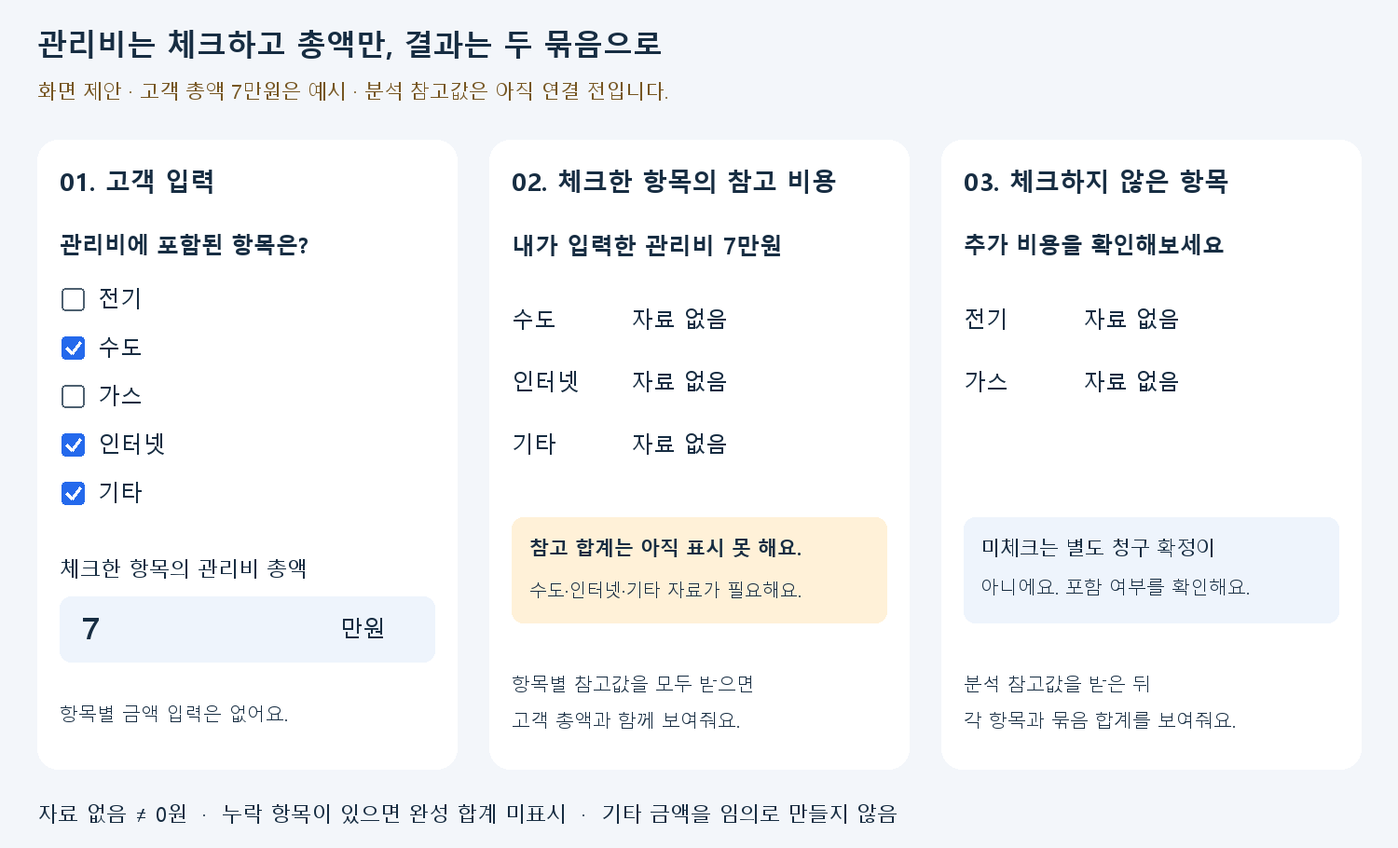
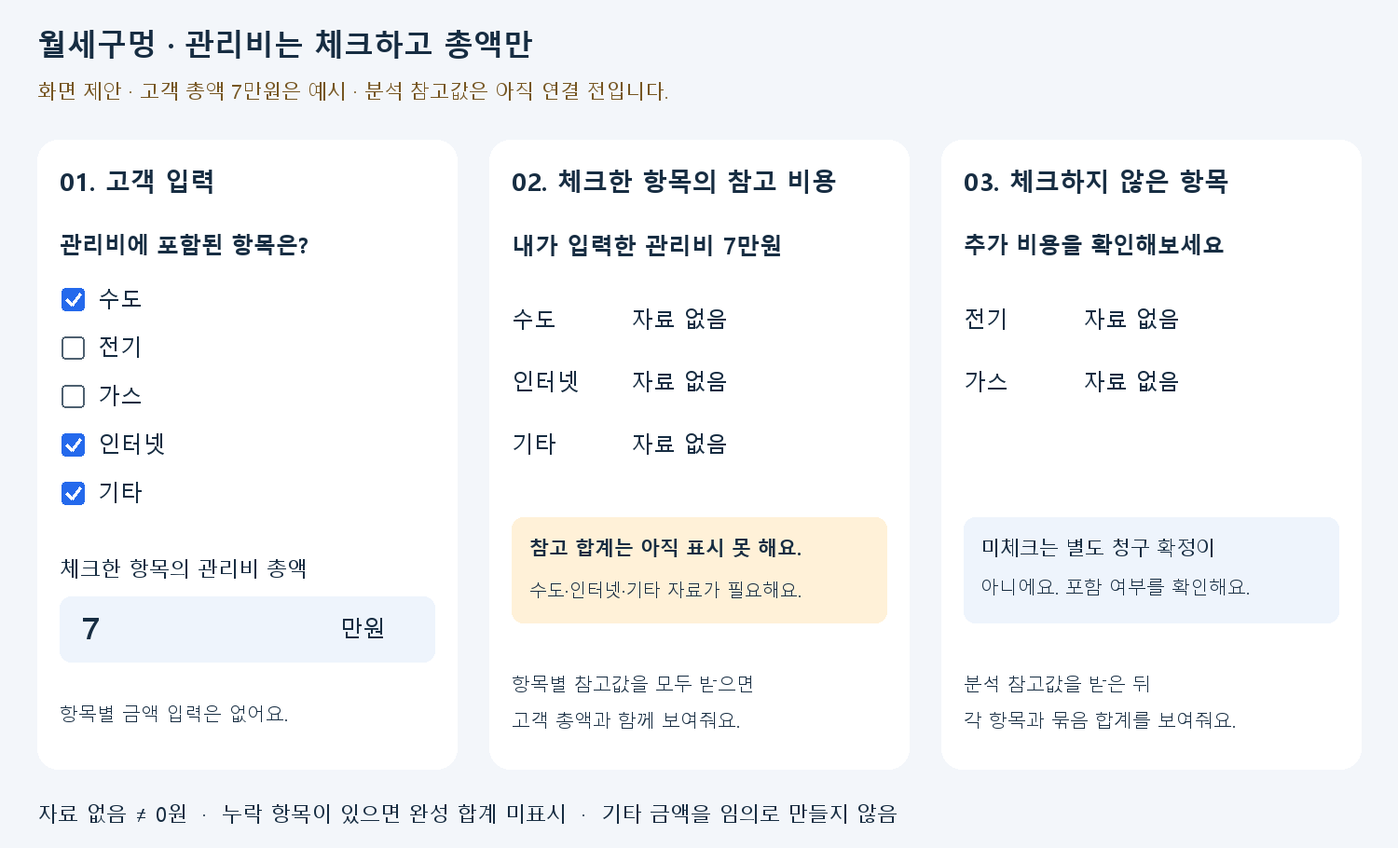
Apply WolseGumeong identity and meeting-approved five-category policy

Changed region(s): [[0.0307, 0.0308, 0.4907, 0.0923], [0.0307, 0.4, 0.092, 0.4308], [0.0307, 0.3385, 0.092, 0.3692]]

diff --git a/backend/reports/mvp_design_review_20261021/review.html b/backend/reports/mvp_design_review_20261021/review.html
@@ -1,12 +1,12 @@
-<!doctype html><html lang="ko"><meta charset="utf-8"><meta name="viewport" content="width=device-width,initial-scale=1"><title>화면 제안과 MVP 전체 현황 · 2026-10-21</title><style>
+<!doctype html><html lang="ko"><meta charset="utf-8"><meta name="viewport" content="width=device-width,initial-scale=1"><title>월세구멍 · 10/21 미팅 반영 보고서</title><style>
 :root{--ink:#17334b;--muted:#586c7e;--blue:#2469ec;--green:#1c775b;--amber:#9a6015;--bg:#f3f6fa}*{box-sizing:border-box}body{margin:0;background:var(--bg);color:var(--ink);font:16px/1.7 'Malgun Gothic',sans-serif}main{max-width:1180px;margin:auto;padding:38px 24px}header{padding:28px 0}h1{font-size:34px;line-height:1.3;letter-spacing:-1.5px}h2{font-size:25px;margin:0 0 20px}h3{font-size:19px}p{margin:10px 0}.eyebrow{color:var(--blue);font-size:14px;letter-spacing:1px}.muted,small{color:var(--muted)}section{background:white;margin:22px 0;padding:30px;border-radius:20px}.notice{background:#eef4ff;padding:16px 20px;border-radius:12px}.warn{background:#fff3dc;padding:14px;border-radius:12px}.grid{display:grid;grid-template-columns:repeat(3,minmax(0,1fr));gap:18px}.two{display:grid;grid-template-columns:1fr 1fr;gap:20px}.stat{padding:20px;background:#f5f8fc;border-radius:14px}.big{font-size:42px;font-weight:bold}.pill{display:inline-block;font-size:13px;background:#eaf5ef;color:var(--green);padding:3px 10px;border-radius:20px}.pending{background:#fff1d6;color:var(--amber)}table{width:100%;border-collapse:collapse}th,td{text-align:left;padding:13px 12px;border-bottom:1px solid #e3eaf1;vertical-align:top}th{background:#eff4f9}td:first-child{white-space:nowrap}a{color:#1d5dc4}nav{display:flex;gap:10px;flex-wrap:wrap}nav a{background:white;padding:9px 15px;border-radius:10px;text-decoration:none}.track{height:10px;background:#e5edf7;border-radius:8px;overflow:hidden}.track span{display:block;height:100%;background:var(--blue)}.screens{display:grid;grid-template-columns:repeat(3,minmax(0,1fr));gap:22px}.phone{border:1px solid #d4deea;border-radius:28px;background:#f6f8fc;overflow:hidden;box-shadow:0 8px 24px #183f6510}.phone .top{padding:15px 20px;background:white;font-weight:bold}.phone .content{padding:20px}.phone h3{font-size:24px;line-height:1.45;letter-spacing:-1px;margin:10px 0 20px}.box{background:white;border-radius:15px;padding:16px;margin:14px 0}.field{display:flex;justify-content:space-between;gap:12px;padding:10px 0;border-bottom:1px solid #edf1f6}.cta{display:block;background:var(--blue);color:white;text-align:center;border-radius:12px;padding:12px;margin-top:18px;font-weight:bold}.secondary{background:#e9f0fd;color:#1d5dc4}.label{font-size:13px;color:var(--muted)}.amount{font-size:30px;font-weight:bold;line-height:1.5}.mock{font-size:12px;text-align:center;background:#fff0d2;color:#835c20;padding:7px}.bar{height:20px;background:#e8eef5;position:relative;margin:23px 0 8px;border-radius:8px}.range{position:absolute;left:23%;width:54%;height:100%;background:#afdbeb}.pin{position:absolute;left:50%;top:-6px;width:3px;height:32px;background:#153b56}.caption{display:flex;justify-content:space-between;font-size:13px}.flow{display:grid;grid-template-columns:repeat(5,1fr);gap:10px}.node{padding:18px 14px;background:#eef4fb;border-radius:12px;position:relative}.node:not(:last-child):after{content:'→';position:absolute;right:-13px;top:40%;font-weight:bold;z-index:1}.node b{display:block;margin:8px 0}.node small{display:block}.checks{list-style:none;padding:0}.checks li{margin:12px 0}details{border-top:1px solid #e3eaf1;padding:14px 0}summary{cursor:pointer;font-weight:bold}.scroll{overflow-x:auto}.screen-note{margin:10px 0 20px;font-size:14px}.state{padding:14px;background:#f5f8fc;border-radius:12px;margin:12px 0}footer{color:var(--muted);font-size:13px;padding:20px 0}@media(max-width:900px){.screens,.grid{grid-template-columns:1fr 1fr}.flow{grid-template-columns:1fr}.node:not(:last-child):after{content:'↓';right:50%;top:auto;bottom:-18px}.two{grid-template-columns:1fr}}@media(max-width:620px){main{padding:18px 12px}section{padding:20px 16px}.screens,.grid{grid-template-columns:1fr}h1{font-size:28px}}@media print{body{background:white}nav,.print{display:none}section{border:1px solid #ddd;break-inside:avoid}.screens{grid-template-columns:repeat(3,1fr)}.phone{box-shadow:none}main{max-width:none}a{color:inherit}}
 </style><main>
-<header><div class="eyebrow">2026.10.21 · 프론트 / 분석 / 백엔드 / PM 공유용</div><h1>처음 자취하는 사람도<br>쉽게 이해하는 동네 월세 비교</h1><p>요구사항 정의서 35개 기준 재작성 · 선택 대기 사항 별도 표시</p><nav><a href="#decisions">먼저 결정할 차이</a><a href="#screens">화면 그림</a><a href="#flow">전체 흐름</a><a href="#status">현황·체크리스트</a><a href="#meeting">오늘 미팅</a><a href="#handoff">프론트 전달</a></nav></header>
+<header><div class="eyebrow">2026.10.21 · 프론트 / 분석 / 백엔드 / PM 공유용</div><h1>월세구멍</h1><p style="font-size:24px;font-weight:bold">마음에 든 집, 놓친 건 없을까?</p><p>요구사항 정의서 35개 기준 재작성 · 선택 대기 사항 별도 표시</p><nav><a href="#decisions">먼저 결정할 차이</a><a href="#screens">화면 그림</a><a href="#flow">전체 흐름</a><a href="#status">현황·체크리스트</a><a href="#meeting">오늘 미팅</a><a href="#handoff">프론트 전달</a></nav></header>
 <section><h2>적용 기준과 현재 상태</h2><p><a href="https://docs.google.com/spreadsheets/d/1D8E9QjkNiDwWqL32SAmZechF-bOX3Pjsi92FhLItBRE/edit?gid=1938341489#gid=1938341489">요구사항 정의서 ‘초안’ 시트</a>를 2026-10-21에 읽었습니다. 001~035 총 35개 요구사항과 하단 메모를 대조했습니다. 시트 이름이 초안이며 협의사항이 남아 있습니다. 원본은 수정하지 않았습니다.</p><div class="warn"><b>선택 전 초안:</b> 서로 다른 관리비 기준·지원 범위·주소 입력 방식·거래 목록 범위는 아래 결정표에서 선택을 기다립니다. 결론을 임의로 확정하거나 실행 코드를 변경하지 않았습니다.</div><div class="notice"><b>월세 분석 연결과 관리비 입력 저장 코드는 있습니다.</b><br>집 서버의 최신 버전 적용·실제 프론트 화면 검증·관리비 추정 계산 연결은 남았습니다. 아래 그림은 구현을 제안하는 시안입니다.</div><p>토스: 쉬운 돈 설명 / 당근: 동네 중심 / 오늘의집: 사진에서 정보 확인. 색상·로고를 복제하지 않고 정보 순서와 사용 흐름을 참고합니다.</p></section>
-<section id="confirmed-maintenance"><h2>고객 결정 반영 — 관리비는 이렇게 입력·표시합니다</h2><p><b>이번 백엔드 검증: 205개 통과·경고 4개.</b> 격리된 SQLite/MySQL 시험 DB 기준이며 집 서버 적용·실제 분석 데이터 검증과 다릅니다.</p><div class="two"><div><h3>고객 입력</h3><p>☑ 수도　☑ 인터넷　☑ 기타<br>☐ 전기　☐ 가스</p><p><b>체크한 항목이 포함된 관리비 총액: 7만원</b></p><p>항목별 금액 입력칸은 없습니다.</p></div><div><h3>결과는 두 묶음</h3><p><b>체크한 항목:</b> 수도·인터넷·기타 참고 비용 각각 + 모두 제공될 때 합계. 고객 입력 7만원과 함께 표시.</p><p><b>체크하지 않은 항목:</b> 전기·가스 참고 비용 각각 + 모두 제공될 때 합계.</p><p>미체크가 별도 청구 확정이라는 뜻은 아닙니다. 기타 등 자료가 빠지면 ‘자료 없음’과 누락 항목을 보여주고 완성 합계는 표시하지 않습니다.</p></div></div><img style="width:100%" src="maintenance-checkbox.png" alt="관리비 체크박스 입력과 두 묶음 결과 시안"><p class="notice">백엔드 입력·조회 구조는 개발했습니다. 실제 분석 자료와 집 서버 배포는 아직 연결 전입니다. 금액을 만들어 보여주거나 관리비를 비쌈/쌈으로 자동 판정하지 않습니다. 참고비용 차액·%와 판정 기준은 분석 계약 확정 후 논의합니다.</p></section><section id="screens"><h2>01. 정의서에 맞춘 4단계 화면</h2><div class="two"><article class="phone"><div class="top">1. 입력 방식</div><div class="content"><h3>어떤 방법으로 입력할까요?</h3><div class="box">광고 캡처 올리기 / 주소 검색 / 직접 입력</div><p><b>요구사항 003~005</b></p><p>직접 입력도 주소 검색을 사용한다는 정의서와 현재 API의 직접 입력 대체 방식을 별도 확인</p></div></article><article class="phone"><div class="top">2. 정보 가져오기</div><div class="content"><h3>찾아온 정보를 확인해요</h3><div class="box">주소 선택 → 건물 조회 / 캡처 → 정보 추출. 이 화면은 읽기 전용. 각 값 옆에 출처 표시</div><p><b>요구사항 006~008</b></p><p>호실 면적·현재 월세를 건물 전체 정보나 과거 거래로 자동 채우지 않기. 건축물대장 자동 조회는 추가 연결 필요</p></div></article><article class="phone"><div class="top">3. 입력·확인</div><div class="content"><h3>내 매물 정보가 맞나요?</h3><div class="box">주소·유형·면적과 기준·보증금·월세·관리비·건축연도·층 수정 → 최종 확인</div><p><b>요구사항 009~021</b></p><p>주소 변경 시 건물 조회값만 갱신. 기존 직접 입력·캡처값 보존 후 재확인. 값 변경 시 확인 해제. 관리비는 5항목 체크 + 총액만 입력</p></div></article><article class="phone"><div class="top">4. 결과</div><div class="content"><h3>내 월세는 기준과 얼마나 다를까요?</h3><div class="box">입력 70만원 / 기준 60만원 → 월 10만원·16.7% 높아요. 그 아래 범위·조건·기간·건수·신뢰도·출처</div><p><b>요구사항 022~035</b></p><p>비교 완료일 때 높음 빨강·낮음 파랑. 참고용은 중립색 수치+사유, 높다/낮다 판정 없음. 관리비 비용은 별도 영역·선택 대기</p></div></article></div><p class="notice">가독성: 진한 본문, 한 화면 한 가지 주요 행동, 차액·퍼센트를 결과 첫 화면에 표시. 높음은 빨강·낮음은 파랑이며 비교 완료 상태에만 적용. 참고용은 중립색·사유 우선.</p><div class="two"><img style="width:100%" src="requirements-entry.png" alt="입력 방식과 정보 가져오기 시안"><img style="width:100%" src="requirements-result.png" alt="입력 확인과 결과 시안"></div></section>
+<section id="confirmed-maintenance"><h2>고객 결정 반영 — 관리비는 이렇게 입력·표시합니다</h2><p><b>이번 백엔드 검증: 206개 통과·경고 4개.</b> 격리된 SQLite/MySQL 시험 DB 기준이며 집 서버 적용·실제 분석 데이터 검증과 다릅니다.</p><div class="two"><div><h3>고객 입력</h3><p>☑ 수도　☑ 인터넷　☑ 기타<br>☐ 전기　☐ 가스</p><p><b>체크한 항목이 포함된 관리비 총액: 7만원</b></p><p>항목별 금액 입력칸은 없습니다.</p></div><div><h3>결과는 두 묶음</h3><p><b>체크한 항목:</b> 수도·인터넷·기타 참고 비용 각각 + 모두 제공될 때 합계. 고객 입력 7만원과 함께 표시.</p><p><b>체크하지 않은 항목:</b> 전기·가스 참고 비용 각각 + 모두 제공될 때 합계.</p><p>미체크가 별도 청구 확정이라는 뜻은 아닙니다. 기타 등 자료가 빠지면 ‘자료 없음’과 누락 항목을 보여주고 완성 합계는 표시하지 않습니다.</p></div></div><img style="width:100%" src="maintenance-checkbox.png" alt="관리비 체크박스 입력과 두 묶음 결과 시안"><p class="notice">백엔드 입력·조회 구조는 개발했습니다. 실제 분석 자료와 집 서버 배포는 아직 연결 전입니다. 금액을 만들어 보여주거나 관리비를 비쌈/쌈으로 자동 판정하지 않습니다. 참고비용 차액·%와 판정 기준은 분석 계약 확정 후 논의합니다.</p></section><section id="screens"><h2>01. 정의서에 맞춘 4단계 화면</h2><div class="two"><article class="phone"><div class="top">1. 입력 방식</div><div class="content"><h3>어떤 방법으로 입력할까요?</h3><div class="box">광고 캡처 올리기 / 주소 검색 / 직접 입력</div><p><b>요구사항 003~005</b></p><p>직접 입력도 주소 검색을 사용한다는 정의서와 현재 API의 직접 입력 대체 방식을 별도 확인</p></div></article><article class="phone"><div class="top">2. 정보 가져오기</div><div class="content"><h3>찾아온 정보를 확인해요</h3><div class="box">주소 선택 → 건물 조회 / 캡처 → 정보 추출. 이 화면은 읽기 전용. 각 값 옆에 출처 표시</div><p><b>요구사항 006~008</b></p><p>호실 면적·현재 월세를 건물 전체 정보나 과거 거래로 자동 채우지 않기. 건축물대장 자동 조회는 추가 연결 필요</p></div></article><article class="phone"><div class="top">3. 입력·확인</div><div class="content"><h3>내 매물 정보가 맞나요?</h3><div class="box">주소·유형·면적과 기준·보증금·월세·관리비·건축연도·층 수정 → 최종 확인</div><p><b>요구사항 009~021</b></p><p>주소 변경 시 건물 조회값만 갱신. 기존 직접 입력·캡처값 보존 후 재확인. 값 변경 시 확인 해제. 관리비는 5항목 체크 + 총액만 입력</p></div></article><article class="phone"><div class="top">4. 결과</div><div class="content"><h3>내 월세는 기준과 얼마나 다를까요?</h3><div class="box">입력 70만원 / 기준 60만원 → 월 10만원·16.7% 높아요. 그 아래 범위·조건·기간·건수·신뢰도·출처</div><p><b>요구사항 022~035</b></p><p>비교 완료일 때 높음 빨강·낮음 파랑. 참고용은 중립색 수치+사유, 높다/낮다 판정 없음. 관리비 비용은 별도 영역·선택 대기</p></div></article></div><p class="notice">가독성: 진한 본문, 한 화면 한 가지 주요 행동, 차액·퍼센트를 결과 첫 화면에 표시. 높음은 빨강·낮음은 파랑이며 비교 완료 상태에만 적용. 참고용은 중립색·사유 우선.</p><div class="two"><img style="width:100%" src="requirements-entry.png" alt="입력 방식과 정보 가져오기 시안"><img style="width:100%" src="requirements-result.png" alt="입력 확인과 결과 시안"></div></section>
 <section id="flow"><h2>02. 최종 큰 그림 — 누가 무엇을 하나요?</h2><div class="flow"><div class="node"><span class="pill pending">화면 검증 필요</span><b>① 프론트</b>캡처·주소 검색·직접 입력<small>주소·유형·면적·금액 수정</small></div><div class="node"><span class="pill">코드 검증</span><b>② 백엔드</b>입력 검증·사용자 확인<small>DB에 원문·항목별 저장</small></div><div class="node"><span class="pill">월세 연결 확인</span><b>③ 분석가 코드</b>동네 유사 거래 비교<small>우리 서버가 코드 실행. 별도 분석가 서버 응답 방식 아님</small></div><div class="node"><span class="pill">코드 검증</span><b>④ 백엔드</b>결과 저장·보고서 조합<small>관리비 입력과 월세 결과 구분</small></div><div class="node"><span class="pill pending">실제 화면 미확인</span><b>⑤ 프론트</b>범위·차이·근거 표시<small>소비자가 조건과 한계 확인</small></div></div><div class="two"><div><h3>월세 흐름</h3><p>실거래 CSV → 분석가의 비교 코드 → 백엔드 호출 → DB 결과 저장 → 프론트 출력</p><p class="pill">로컬·기존 집 API 흐름 확인</p><p>같은 건물 우선은 현재 운영 범위에서 끔. 동네 비교 유지.</p></div><div><h3>관리비 흐름</h3><p><b>광고 명시값:</b> 프론트 입력 → 백엔드 5항목 저장 → 화면 표시</p><p><b>참고 비용:</b> 사용량 CSV + 분석가 계산 코드 → 백엔드 연결 → 결과 표시</p><p class="pill pending">CSV 확보·단위/출력 계약·연결 검증 필요</p></div></div><div class="notice"><b>서버 운영은 별도 길입니다.</b> Git push/pull은 코드를 옮깁니다. 집 DB·환경설정은 자동 이동하지 않습니다. 집 Tailscale·SSH 연결 후 백업 → 최신 코드 반영 → 서버 재시작 → 확인해야 합니다.</div></section>
 <section id="status"><h2>03. 요구사항 기준 현황 — 전체 %는 산정 보류</h2><div class="notice">이전 45%는 별도 20개 시연 체크 기준이었습니다. 이번 정의서 35개 전체 진행률과 다르므로 공식 수치로 사용하지 않습니다. 코드 존재와 집 배포·실제 화면 검증을 구분해 아래에 기록했습니다. 팀원 작업량을 추정하지 않습니다.</div><div class="scroll"><table><thead><tr><th>요구사항·원본 행</th><th>내용</th><th>현재 대조 결과 / 필요한 일</th></tr></thead><tbody><tr><td><a href="https://docs.google.com/spreadsheets/d/1D8E9QjkNiDwWqL32SAmZechF-bOX3Pjsi92FhLItBRE/edit?gid=1938341489#gid=1938341489&range=A2:J2">001 · 2행</a></td><td>서비스 소개</td><td>기존 월세 동네 비교 방향과 일치. 실제 비교 범위 응답 확인 필요</td></tr><tr><td><a href="https://docs.google.com/spreadsheets/d/1D8E9QjkNiDwWqL32SAmZechF-bOX3Pjsi92FhLItBRE/edit?gid=1938341489#gid=1938341489&range=A3:J3">002 · 3행</a></td><td>서비스 범위 및 유의사항 안내</td><td>선택 D3. 비용 계산 범위·시점·지역 안내 필요</td></tr><tr><td><a href="https://docs.google.com/spreadsheets/d/1D8E9QjkNiDwWqL32SAmZechF-bOX3Pjsi92FhLItBRE/edit?gid=1938341489#gid=1938341489&range=A4:J4">003 · 4행</a></td><td>입력 방식 선택</td><td>새 시안에 3가지 선택 반영. 실제 프론트 미검증</td></tr><tr><td><a href="https://docs.google.com/spreadsheets/d/1D8E9QjkNiDwWqL32SAmZechF-bOX3Pjsi92FhLItBRE/edit?gid=1938341489#gid=1938341489&range=A5:J5">004 · 5행</a></td><td>카카오 주소 검색</td><td>주소 후보·법정동 코드 API 코드 있음. 실제 키 호출 검증은 별도</td></tr><tr><td><a href="https://docs.google.com/spreadsheets/d/1D8E9QjkNiDwWqL32SAmZechF-bOX3Pjsi92FhLItBRE/edit?gid=1938341489#gid=1938341489&range=A6:J6">005 · 6행</a></td><td>매물 정보 캡처 첨부</td><td>이미지 업로드·추출 API 코드 있음. 실제 화면·실API 확인 필요</td></tr><tr><td><a href="https://docs.google.com/spreadsheets/d/1D8E9QjkNiDwWqL32SAmZechF-bOX3Pjsi92FhLItBRE/edit?gid=1938341489#gid=1938341489&range=A7:J7">006 · 7행</a></td><td>건물 정보 자동 조회</td><td>건축물대장 자동 조회·읽기 전용 표시 미연결 확인</td></tr><tr><td><a href="https://docs.google.com/spreadsheets/d/1D8E9QjkNiDwWqL32SAmZechF-bOX3Pjsi92FhLItBRE/edit?gid=1938341489#gid=1938341489&range=A8:J8">007 · 8행</a></td><td>이미지 정보 추출</td><td>추출 코드 있음. 읽기 전용 단계·확인 흐름 실제 화면 미검증</td></tr><tr><td><a href="https://docs.google.com/spreadsheets/d/1D8E9QjkNiDwWqL32SAmZechF-bOX3Pjsi92FhLItBRE/edit?gid=1938341489#gid=1938341489&range=A9:J9">008 · 9행</a></td><td>자동 입력 정보의 출처 표시</td><td>값별 출처 배지·저장/전달 구조 확인 필요</td></tr><tr><td><a href="https://docs.google.com/spreadsheets/d/1D8E9QjkNiDwWqL32SAmZechF-bOX3Pjsi92FhLItBRE/edit?gid=1938341489#gid=1938341489&range=A10:J10">009 · 10행</a></td><td>매물 주소 보완 및 변경</td><td>주소 검색 후보 API 있음. 화면 선택·변경 검증 필요</td></tr><tr><td><a href="https://docs.google.com/spreadsheets/d/1D8E9QjkNiDwWqL32SAmZechF-bOX3Pjsi92FhLItBRE/edit?gid=1938341489#gid=1938341489&range=A11:J11">010 · 11행</a></td><td>주소 변경에 따른 건물 정보 갱신</td><td>주소 변경에 따른 조회 갱신·기존값 보존 미검증</td></tr><tr><td><a href="https://docs.google.com/spreadsheets/d/1D8E9QjkNiDwWqL32SAmZechF-bOX3Pjsi92FhLItBRE/edit?gid=1938341489#gid=1938341489&range=A12:J12">011 · 12행</a></td><td>매물 정보 직접 입력 및 수정</td><td>선택 D5. 직접 입력 주소 검색 강제 여부 차이</td></tr><tr><td><a href="https://docs.google.com/spreadsheets/d/1D8E9QjkNiDwWqL32SAmZechF-bOX3Pjsi92FhLItBRE/edit?gid=1938341489#gid=1938341489&range=A13:J13">012 · 13행</a></td><td>주택 유형 선택 및 수정</td><td>유형 입력·검증 코드 있음. 선택 화면·지원 범위 최종 확인</td></tr><tr><td><a href="https://docs.google.com/spreadsheets/d/1D8E9QjkNiDwWqL32SAmZechF-bOX3Pjsi92FhLItBRE/edit?gid=1938341489#gid=1938341489&range=A14:J14">013 · 14행</a></td><td>면적 및 면적 기준 입력</td><td>면적·기준 입력 계약 있음. 미확인 선택 실제 화면 확인</td></tr><tr><td><a href="https://docs.google.com/spreadsheets/d/1D8E9QjkNiDwWqL32SAmZechF-bOX3Pjsi92FhLItBRE/edit?gid=1938341489#gid=1938341489&range=A15:J15">014 · 15행</a></td><td>보증금·월세·관리비 입력</td><td>고객 결정: 체크박스 5개 + 총액 한 칸. 새 백엔드 입력 계약 추가, 문서 014번 수정 협의 필요</td></tr><tr><td><a href="https://docs.google.com/spreadsheets/d/1D8E9QjkNiDwWqL32SAmZechF-bOX3Pjsi92FhLItBRE/edit?gid=1938341489#gid=1938341489&range=A16:J16">015 · 16행</a></td><td>건축연도 입력 및 수정</td><td>연도 입력 있음. 사용승인연도 대체 합의 필요</td></tr><tr><td><a href="https://docs.google.com/spreadsheets/d/1D8E9QjkNiDwWqL32SAmZechF-bOX3Pjsi92FhLItBRE/edit?gid=1938341489#gid=1938341489&range=A17:J17">016 · 17행</a></td><td>해당 호실의 층 정보 입력</td><td>층·지상/지하·미확인 계약 있음. 화면 확인 필요</td></tr><tr><td><a href="https://docs.google.com/spreadsheets/d/1D8E9QjkNiDwWqL32SAmZechF-bOX3Pjsi92FhLItBRE/edit?gid=1938341489#gid=1938341489&range=A18:J18">017 · 18행</a></td><td>입력 정보와 조회 정보의 불일치 확인</td><td>건물 조회값과 입력값 출처별 충돌 표시 추가 필요</td></tr><tr><td><a href="https://docs.google.com/spreadsheets/d/1D8E9QjkNiDwWqL32SAmZechF-bOX3Pjsi92FhLItBRE/edit?gid=1938341489#gid=1938341489&range=A19:J19">018 · 19행</a></td><td>필수 정보 누락 안내</td><td>등록·분석 입력 검증 코드 있음. 화면 차단 확인 필요</td></tr><tr><td><a href="https://docs.google.com/spreadsheets/d/1D8E9QjkNiDwWqL32SAmZechF-bOX3Pjsi92FhLItBRE/edit?gid=1938341489#gid=1938341489&range=A20:J20">019 · 20행</a></td><td>잘못된 입력값 안내</td><td>형식·범위 검증 코드 있음. 입력칸별 오류 안내 확인 필요</td></tr><tr><td><a href="https://docs.google.com/spreadsheets/d/1D8E9QjkNiDwWqL32SAmZechF-bOX3Pjsi92FhLItBRE/edit?gid=1938341489#gid=1938341489&range=A21:J21">020 · 21행</a></td><td>입력 정보 최종 확인</td><td>미확인 분석 차단 코드 있음. 값 수정 시 확인 초기화 화면 검증 필요</td></tr><tr><td><a href="https://docs.google.com/spreadsheets/d/1D8E9QjkNiDwWqL32SAmZechF-bOX3Pjsi92FhLItBRE/edit?gid=1938341489#gid=1938341489&range=A22:J22">021 · 22행</a></td><td>월세 비교 시작</td><td>월세 호출 연결 있음. 실제 화면 및 구 전체 확대 참고용 처리 재검증</td></tr><tr><td><a href="https://docs.google.com/spreadsheets/d/1D8E9QjkNiDwWqL32SAmZechF-bOX3Pjsi92FhLItBRE/edit?gid=1938341489#gid=1938341489&range=A23:J23">022 · 23행</a></td><td>분석 결과 상태 안내</td><td>분석 상태 계약 있음. 다섯 상태의 한글 문구 화면 검증 필요</td></tr><tr><td><a href="https://docs.google.com/spreadsheets/d/1D8E9QjkNiDwWqL32SAmZechF-bOX3Pjsi92FhLItBRE/edit?gid=1938341489#gid=1938341489&range=A24:J24">023 · 24행</a></td><td>분석 대상 매물 정보 표시</td><td>보고서 property.input 제공. 수정 전후 결과 연결 확인 필요</td></tr><tr><td><a href="https://docs.google.com/spreadsheets/d/1D8E9QjkNiDwWqL32SAmZechF-bOX3Pjsi92FhLItBRE/edit?gid=1938341489#gid=1938341489&range=A25:J25">024 · 25행</a></td><td>유사 실거래 기준 가격 및 범위 표시</td><td>중앙값·가격 범위 응답 있음. 용어 설명·미제공 처리 화면 필요</td></tr><tr><td><a href="https://docs.google.com/spreadsheets/d/1D8E9QjkNiDwWqL32SAmZechF-bOX3Pjsi92FhLItBRE/edit?gid=1938341489#gid=1938341489&range=A26:J26">025 · 26행</a></td><td>기준 월세와의 차이 표시</td><td>차액·비율 응답 있음. 비율×100·관리비 제외·색상 적용</td></tr><tr><td><a href="https://docs.google.com/spreadsheets/d/1D8E9QjkNiDwWqL32SAmZechF-bOX3Pjsi92FhLItBRE/edit?gid=1938341489#gid=1938341489&range=A27:J27">034 · 27행</a></td><td>예상 공과금·인터넷 산정 내역 표시</td><td>필수 CSV 누락·계산 연결 대기. 항목 미제공/합계 미제공 처리 필요</td></tr><tr><td><a href="https://docs.google.com/spreadsheets/d/1D8E9QjkNiDwWqL32SAmZechF-bOX3Pjsi92FhLItBRE/edit?gid=1938341489#gid=1938341489&range=A28:J28">035 · 28행</a></td><td>입력 매물과 비교 기준의 참고 비용 표시</td><td>고객 결정: 체크/미체크 참고비용 분리. 분석값 미연결. 기존 035번 출력 방식은 변경 협의 필요</td></tr><tr><td><a href="https://docs.google.com/spreadsheets/d/1D8E9QjkNiDwWqL32SAmZechF-bOX3Pjsi92FhLItBRE/edit?gid=1938341489#gid=1938341489&range=A29:J29">026 · 29행</a></td><td>유사 실거래 대비 가격 위치 안내</td><td>참고용 방향 판정 금지. v2 구 확대 상태 재검증 필요</td></tr><tr><td><a href="https://docs.google.com/spreadsheets/d/1D8E9QjkNiDwWqL32SAmZechF-bOX3Pjsi92FhLItBRE/edit?gid=1938341489#gid=1938341489&range=A30:J30">027 · 30행</a></td><td>비교에 사용한 거래 조건 표시</td><td>조건·건수 응답 있음. 실제 계약일 범위 제공 여부 추가 확인</td></tr><tr><td><a href="https://docs.google.com/spreadsheets/d/1D8E9QjkNiDwWqL32SAmZechF-bOX3Pjsi92FhLItBRE/edit?gid=1938341489#gid=1938341489&range=A31:J31">028 · 31행</a></td><td>비교 범위 및 조건 확대 안내</td><td>조건 완화·구 확대 응답 있음. 구 확대 판정 억제 재검증 필요</td></tr><tr><td><a href="https://docs.google.com/spreadsheets/d/1D8E9QjkNiDwWqL32SAmZechF-bOX3Pjsi92FhLItBRE/edit?gid=1938341489#gid=1938341489&range=A32:J32">029 · 32행</a></td><td>결과 신뢰도 안내</td><td>등급·설명 응답 있음. 가격 정확도/사기 확률 표현 금지</td></tr><tr><td><a href="https://docs.google.com/spreadsheets/d/1D8E9QjkNiDwWqL32SAmZechF-bOX3Pjsi92FhLItBRE/edit?gid=1938341489#gid=1938341489&range=A33:J33">030 · 33행</a></td><td>데이터 출처 및 분석 한계 안내</td><td>출처·기간·자료 한계 표시 필요. 비용 추정은 아직 미연결</td></tr><tr><td><a href="https://docs.google.com/spreadsheets/d/1D8E9QjkNiDwWqL32SAmZechF-bOX3Pjsi92FhLItBRE/edit?gid=1938341489#gid=1938341489&range=A34:J34">031 · 34행</a></td><td>참고용 결과 및 판단 보류 사유 안내</td><td>자료 부족·보류 계약 있음. null 수치·판정 문구 화면 처리 확인</td></tr><tr><td><a href="https://docs.google.com/spreadsheets/d/1D8E9QjkNiDwWqL32SAmZechF-bOX3Pjsi92FhLItBRE/edit?gid=1938341489#gid=1938341489&range=A35:J35">032 · 35행</a></td><td>조건 수정 및 재분석</td><td>이전 매물 연결·새 버전 등록 코드 있음. 입력 유지·낡은 결과 숨김 화면 검증 필요</td></tr><tr><td><a href="https://docs.google.com/spreadsheets/d/1D8E9QjkNiDwWqL32SAmZechF-bOX3Pjsi92FhLItBRE/edit?gid=1938341489#gid=1938341489&range=A36:J36">033 · 36행</a></td><td>다른 매물 분석 시작</td><td>새 매물 흐름 화면 초기화 검증 필요</td></tr></tbody></table></div></section>
-<section><h2>04. 백엔드 — 한 일 / 막힌 일 / 다음 일</h2><div class="grid"><div><h3>☑ 수행한 일</h3><ul><li>등록 → 확인 → MySQL → 월세 분석 → 결과 조회 연결</li><li>5항목 저장 및 과거 7항목·원문 보존</li><li>접근 권한·null/0·재시도 확인</li><li>DB 행 수 확인 도구 추가</li><li>PR 호환성 검토, 집 인계서·원격 설정 ZIP 준비</li><li>개인·팀 push 완료(팀 backend만)</li></ul></div><div><h3>☐ 실제로 막힌 일</h3><ul><li>집 PC 최초 원격 등록 전 → 집 배포·행 수 조회 대기</li><li>관리비 계산 필수 CSV 없음 → 추정 계산 시험 중단</li><li>실제 프론트 최신 화면 최종 검증 미완료</li><li>분석 응답에 개별 거래 목록 없음</li><li>아파트 청소·공용 표시 정책 논의 중</li></ul></div><div><h3>→ 다음 순서</h3><ol><li>분석가 파일·PR 보완과 관리비 계약 확인</li><li>프론트 화면별 입력·응답 연결 검증</li><li>퇴근 후 집 원격 설정·DB 백업</li><li>집 최신 코드 적용·재시작·행 수 확인</li><li>실제 화면에서 전체 흐름·실패 사례 시연</li></ol></div></div><p class="notice"><b>현재 확인한 시험:</b> 분석 PR 복사본 백엔드 178 통과·11 건너뜀·경고 4개 / DB 집계 도구 SQLite·MySQL 2 통과·경고 1개. 서로 다른 범위라 합산하지 않습니다. 이번 35개 정의서의 추가 요구까지 통과했다는 뜻이 아닙니다. 관리비 함수는 CSV 누락 오류 확인. Docker 빌드는 미검증. 이전 192개 통과 기록은 이번 실행 결과로 재사용하지 않았습니다.</p></section>
-<section id="decisions"><h2>서로 다른 내용 — 사용자 선택 대기</h2><div class="scroll"><table><thead><tr><th>차이</th><th>정의서 vs 기존 내용</th><th>선택지 / 처리</th><th>현재 상태</th></tr></thead><tbody><tr><td>D1 · 관리비 입력</td><td>014번: 총액만, 포함 항목 입력 없음. 시트 하단 메모: 포함 체크박스. 기존 논의·코드: 5항목 포함/별도/모름·명시 금액.</td><td>A 총액+5항목 상세 유지 / B 총액만 / C 총액+포함 체크만</td><td>고객 결정: 체크박스 5개+총액 한 칸. 백엔드 새 모드 구현. 항목별 금액 요구 안 함</td></tr><tr><td>D2 · 비용 결과</td><td>034·035번: 공과금·인터넷별 예상 금액 및 두 종류 합계. 현재 서버: 추정 계산 보류·필수 CSV 누락. 두 합계의 비용 범위도 다를 수 있음.</td><td>A 확보 후 두 금액을 별도 표시, 차액·%는 월세에만 / B 월세+광고 관리비 우선, 예상 비용은 후속</td><td>고객 결정: 체크/미체크 참고비용 두 묶음. 기존 035번의 서로 다른 범위 합계 비교안보다 이 결정 우선. 분석값 확보 후 연결</td></tr><tr><td>D3 · 지원 범위</td><td>002번: 서울/전국·아파트/전체 유형 협의 중. 현 코드는 확보·검증된 범위만 연결.</td><td>A 현재 검증된 범위 / B 서울 전체 목표+미확보 안내 / C 전국 확대 계획</td><td>지원 지역 논의 중. 전국 데이터 없으면 서울 우선 검토. 데이터 없는 곳을 지원 완료로 표시하지 않음</td></tr><tr><td>D4 · 입력 단계</td><td>기존 시안 5개 화면에는 주소 검색 시작·조회값 읽기 전용·값 출처 표시가 빠짐. 정의서는 4단계.</td><td>정의서의 4단계로 수정. 관리비는 3단계 안의 입력 묶음</td><td>보고서·새 화면 그림 반영. 실제 프론트 구현은 별도</td></tr><tr><td>D5 · 주소 직접 입력</td><td>011번: 직접 입력 선택에서도 주소는 검색 선택. 현재 주소 API 미설정·오류 시 직접 입력 대체 제공.</td><td>A 검색 선택 필수+실패 시 잠시 중단 / B 검색 우선, 실패 시 코드 검증된 직접 입력 허용</td><td>사용자 선택 필요. 대체 경로 임의 삭제하지 않음</td></tr><tr><td>D6 · 건물 조회·연도</td><td>006·010·017번: 건축물대장 조회·주소 변경 갱신·출처 충돌 안내. 015번: 사용승인연도를 건축연도로 쓸지 협의 중.</td><td>기능 연결 필요. 연도는 명시적 매핑 합의 전 자동 대입하지 않음</td><td>분석·백엔드 협의 항목. 조회 구현 완료로 보고하지 않음</td></tr><tr><td>D7 · 참고용 결과</td><td>026·028·031번: 참고용·구 전체 확대 결과는 높고 낮음 판정 금지. 기존 시안의 차액 강조 규칙은 상태별 제한 설명이 부족.</td><td>정의서에 맞춰 참고용은 중립 수치·이유, 비교 완료일 때만 방향 문구·색상</td><td>시안 반영. v2 실제 구 확대 응답에서 판정 억제 재검증 필요</td></tr><tr><td>D8 · 개별 거래 목록</td><td>기존 기획은 거래별 목록을 요구. 정의서 027번은 조건·건수·기간을 요구하며 개별 거래 목록은 명시하지 않음. 현재 분석 응답도 목록 없음.</td><td>A MVP는 조건·건수·기간만 / B 개별 목록을 추가 요구사항으로 유지</td><td>사용자 선택 필요. 가짜 목록 생성 금지</td></tr><tr><td>D9 · 진행률</td><td>이전 45%는 임의로 묶은 시연 체크 20개 기준. 정의서 전체 35개와 분모가 다름.</td><td>35개 요구사항을 구현·집 배포·실제 화면 검증으로 나눠 대조 후 비율 산정</td><td>공식 전체 진행률 산정 보류. 기존 45%를 전체 개발률로 사용하지 않음</td></tr></tbody></table></div></section><section><h2>프론트·분석가에게 지금 요청할 것</h2><div class="two"><div><h3>프론트 담당</h3><p>입력은 5개 체크박스와 총액 한 칸으로 바꿔주세요. 체크와 미체크 참고비용을 결과에서 나눠 보여주세요. 참고값 없는 항목은 ‘자료 없음’, 빠진 항목이 있는 묶음은 합계 미표시입니다.</p><p>API: options.maintenance_input_mode=CHECKBOX_TOTAL_V1. 체크 INCLUDED / 미체크 UNKNOWN. report.maintenance_reference_groups 사용.</p></div><div><h3>분석 담당</h3><p>서버 실행에 필요한 CSV·이용 조건·실행 방법을 전달해주세요. 5항목별 참고값(단일값/구간), 단위·출처·기준 시점·조건·자료 없음 여부를 맞춰주세요.</p><p>기타 자료가 없다면 ‘없음’으로 전달합니다. 총액에서 다른 항목을 빼서 기타를 만들지 않습니다. 최신 PR f08cad0에는 기본 꺼짐 시연 연결·누락 안내·월세 유지 문구 수정이 추가됐습니다. 이번 체크/미체크 결과 구조와 합칠 때 별도 검토가 필요하며 미체크를 SEPARATE로 바꾸지 않습니다.</p></div></div><div class="warn"><b>논의 중:</b> 아파트 청소·공용 별도 표시 / 서울 한정·주택유형별 실제 지원 / 관리비 참고 차이 해석 기준 / 주소 검색 실패 경로 / 거래별 목록.</div></section><section id="meeting"><h2>05. 오늘 미팅 — 결정할 것과 받을 것</h2><p>10/21(수) 오후 4시 30분 예정이었던 미팅의 공유용 안건입니다. 실제 개최·시간 변경 여부는 별도 확인입니다.</p><div class="scroll"><table><thead><tr><th>순서</th><th>함께 확인할 내용</th><th>미팅 후 남길 결과</th></tr></thead><tbody><tr><td>1 · 범위</td><td>관리비 체크박스+총액 결정 공유 및 분석 응답 연결.  아파트 청소·공용 정책. 지원 범위·주소 실패 대체·목록 범위 결정</td><td>주택유형별 최종 항목표·변경 담당</td></tr><tr><td>2 · 분석</td><td>필수 CSV 전달·이용 조건, 관리비 PR 설명과 실행 보완. 1/n·유사 방식 검증 결과는 확보된 근거만 공유</td><td>전달 파일·단위·조건·출력·보류 사유·미완료 목록</td></tr><tr><td>3 · 프론트</td><td>실제 연결한 화면에서 입력 → 확인 → 결과 시연. 정의서 기준 4단계 화면과 비교</td><td>최신 화면 주소·재현 동작·오류 메시지·수정 담당</td></tr><tr><td>4 · 서버</td><td>집 최초 설정은 퇴근 후 진행. 최신 배포·DB 행 수 확인은 아직 남음</td><td>집 인계서 확인·실행 순서·검증 결과 기록 위치</td></tr><tr><td>5 · 디자인</td><td>토스의 쉬운 금액 설명 + 당근 동네 중심 + 오늘의집 사진 확인 흐름 선택</td><td>프론트가 적용할 화면·문구·색상안</td></tr><tr><td>6 · 이름</td><td>각자 서비스명 3개(2~4글자)·슬로건 3개 공유 및 투표</td><td>최종 후보·투표 결과. 임의 결정하지 않음</td></tr></tbody></table></div><h3>미팅에서 이렇게 말하면 됩니다</h3><p>“백엔드는 월세 분석 연결과 관리비 5항목 저장 코드까지 준비됐습니다. 집 서버의 최신 적용과 실제 화면 검증은 남았습니다. 오늘은 관리비 항목 구분, 분석 CSV 전달, 실제 프론트 연결 상태를 확정하고 싶습니다. 집 원격 설정은 퇴근 후 진행하겠습니다.”</p></section>
+<section><h2>04. 백엔드 — 한 일 / 막힌 일 / 다음 일</h2><div class="grid"><div><h3>☑ 수행한 일</h3><ul><li>등록 → 확인 → MySQL → 월세 분석 → 결과 조회 연결</li><li>5항목 저장 및 과거 7항목·원문 보존</li><li>접근 권한·null/0·재시도 확인</li><li>DB 행 수 확인 도구 추가</li><li>PR 호환성 검토, 집 인계서·원격 설정 ZIP 준비</li><li>개인·팀 push 완료(팀 backend만)</li></ul></div><div><h3>☐ 실제로 막힌 일</h3><ul><li>집 PC 최초 원격 등록 전 → 집 배포·행 수 조회 대기</li><li>관리비 계산 필수 CSV 없음 → 추정 계산 시험 중단</li><li>실제 프론트 최신 화면 최종 검증 미완료</li><li>분석 응답에 개별 거래 목록 없음</li><li>관리비 실제 자료 비교 결과·최종 산정 방식 전달 대기</li></ul></div><div><h3>→ 다음 순서</h3><ol><li>분석가 파일·PR 보완과 관리비 계약 확인</li><li>프론트 화면별 입력·응답 연결 검증</li><li>퇴근 후 집 원격 설정·DB 백업</li><li>집 최신 코드 적용·재시작·행 수 확인</li><li>실제 화면에서 전체 흐름·실패 사례 시연</li></ol></div></div><p class="notice"><b>현재 확인한 시험:</b> 분석 PR 복사본 백엔드 178 통과·11 건너뜀·경고 4개 / DB 집계 도구 SQLite·MySQL 2 통과·경고 1개. 서로 다른 범위라 합산하지 않습니다. 이번 35개 정의서의 추가 요구까지 통과했다는 뜻이 아닙니다. 관리비 함수는 CSV 누락 오류 확인. Docker 빌드는 미검증. 이전 192개 통과 기록은 이번 실행 결과로 재사용하지 않았습니다.</p></section>
+<section id="decisions"><div class="notice"><b>10/21 확정:</b> 서비스명·슬로건·모든 유형 5항목 통일은 더 이상 선택 대기가 아닙니다. 아래 표는 정의서와의 과거 차이도 보존하며 지원 범위·주소 실패 경로·개별 목록 등 실제 미결정 사항만 남습니다.</div><h2>정의서 차이와 남은 협의</h2><div class="scroll"><table><thead><tr><th>차이</th><th>정의서 vs 기존 내용</th><th>선택지 / 처리</th><th>현재 상태</th></tr></thead><tbody><tr><td>D1 · 관리비 입력</td><td>014번: 총액만, 포함 항목 입력 없음. 시트 하단 메모: 포함 체크박스. 기존 논의·코드: 5항목 포함/별도/모름·명시 금액.</td><td>A 총액+5항목 상세 유지 / B 총액만 / C 총액+포함 체크만</td><td>고객 결정: 체크박스 5개+총액 한 칸. 백엔드 새 모드 구현. 항목별 금액 요구 안 함</td></tr><tr><td>D2 · 비용 결과</td><td>034·035번: 공과금·인터넷별 예상 금액 및 두 종류 합계. 현재 서버: 추정 계산 보류·필수 CSV 누락. 두 합계의 비용 범위도 다를 수 있음.</td><td>A 확보 후 두 금액을 별도 표시, 차액·%는 월세에만 / B 월세+광고 관리비 우선, 예상 비용은 후속</td><td>고객 결정: 체크/미체크 참고비용 두 묶음. 기존 035번의 서로 다른 범위 합계 비교안보다 이 결정 우선. 분석값 확보 후 연결</td></tr><tr><td>D3 · 지원 범위</td><td>002번: 서울/전국·아파트/전체 유형 협의 중. 현 코드는 확보·검증된 범위만 연결.</td><td>A 현재 검증된 범위 / B 서울 전체 목표+미확보 안내 / C 전국 확대 계획</td><td>지원 지역 논의 중. 전국 데이터 없으면 서울 우선 검토. 데이터 없는 곳을 지원 완료로 표시하지 않음</td></tr><tr><td>D4 · 입력 단계</td><td>기존 시안 5개 화면에는 주소 검색 시작·조회값 읽기 전용·값 출처 표시가 빠짐. 정의서는 4단계.</td><td>정의서의 4단계로 수정. 관리비는 3단계 안의 입력 묶음</td><td>보고서·새 화면 그림 반영. 실제 프론트 구현은 별도</td></tr><tr><td>D5 · 주소 직접 입력</td><td>011번: 직접 입력 선택에서도 주소는 검색 선택. 현재 주소 API 미설정·오류 시 직접 입력 대체 제공.</td><td>A 검색 선택 필수+실패 시 잠시 중단 / B 검색 우선, 실패 시 코드 검증된 직접 입력 허용</td><td>사용자 선택 필요. 대체 경로 임의 삭제하지 않음</td></tr><tr><td>D6 · 건물 조회·연도</td><td>006·010·017번: 건축물대장 조회·주소 변경 갱신·출처 충돌 안내. 015번: 사용승인연도를 건축연도로 쓸지 협의 중.</td><td>기능 연결 필요. 연도는 명시적 매핑 합의 전 자동 대입하지 않음</td><td>분석·백엔드 협의 항목. 조회 구현 완료로 보고하지 않음</td></tr><tr><td>D7 · 참고용 결과</td><td>026·028·031번: 참고용·구 전체 확대 결과는 높고 낮음 판정 금지. 기존 시안의 차액 강조 규칙은 상태별 제한 설명이 부족.</td><td>정의서에 맞춰 참고용은 중립 수치·이유, 비교 완료일 때만 방향 문구·색상</td><td>시안 반영. v2 실제 구 확대 응답에서 판정 억제 재검증 필요</td></tr><tr><td>D8 · 개별 거래 목록</td><td>기존 기획은 거래별 목록을 요구. 정의서 027번은 조건·건수·기간을 요구하며 개별 거래 목록은 명시하지 않음. 현재 분석 응답도 목록 없음.</td><td>A MVP는 조건·건수·기간만 / B 개별 목록을 추가 요구사항으로 유지</td><td>사용자 선택 필요. 가짜 목록 생성 금지</td></tr><tr><td>D9 · 진행률</td><td>이전 45%는 임의로 묶은 시연 체크 20개 기준. 정의서 전체 35개와 분모가 다름.</td><td>35개 요구사항을 구현·집 배포·실제 화면 검증으로 나눠 대조 후 비율 산정</td><td>공식 전체 진행률 산정 보류. 기존 45%를 전체 개발률로 사용하지 않음</td></tr></tbody></table></div></section><section><h2>프론트·분석가에게 지금 요청할 것</h2><div class="two"><div><h3>프론트 담당</h3><p>입력은 5개 체크박스와 총액 한 칸으로 바꿔주세요. 체크와 미체크 참고비용을 결과에서 나눠 보여주세요. 참고값 없는 항목은 ‘자료 없음’, 빠진 항목이 있는 묶음은 합계 미표시입니다.</p><p>API: options.maintenance_input_mode=CHECKBOX_TOTAL_V1. 체크 INCLUDED / 미체크 UNKNOWN. report.maintenance_reference_groups 사용.</p></div><div><h3>분석 담당</h3><p>서버 실행에 필요한 CSV·이용 조건·실행 방법을 전달해주세요. 5항목별 참고값(단일값/구간), 단위·출처·기준 시점·조건·자료 없음 여부를 맞춰주세요.</p><p>기타 자료가 없다면 ‘없음’으로 전달합니다. 총액에서 다른 항목을 빼서 기타를 만들지 않습니다. 최신 PR f08cad0에는 기본 꺼짐 시연 연결·누락 안내·월세 유지 문구 수정이 추가됐습니다. 이번 체크/미체크 결과 구조와 합칠 때 별도 검토가 필요하며 미체크를 SEPARATE로 바꾸지 않습니다.</p></div></div><div class="warn"><b>논의 중:</b> 서울 한정·주택유형별 실제 지원 / 관리비 참고 차이 해석 기준 / 주소 검색 실패 경로 / 거래별 목록.</div></section><section id="meeting"><h2>05. 10/21 미팅 확정 내용</h2><div class="notice"><b>서비스명: 월세구멍</b><br>슬로건: 마음에 든 집, 놓친 건 없을까?<br>내가 본 집에서 놓친 부분(구멍)이 없는지 짚어봅니다.</div><div class="scroll"><table><thead><tr><th>담당·항목</th><th>확정한 내용</th><th>다음 실행·확인</th></tr></thead><tbody><tr><td>관리비 공통</td><td>아파트·빌라·다가구·오피스텔 모두 수도세·전기세·가스비·인터넷·기타 5항목</td><td>청소·공용은 기타 설명으로 보존. 별도 항목 신설 없음. 실제 자료 지원은 별도</td></tr><tr><td>데이터 분석</td><td>강서 2건·송파 1건의 실제 데이터와 비교해 가까운 산정 방식 선택</td><td>방식별 차액·오차·조건 기록 후 선택 결과 전달. 아직 선택된 계산법을 전달받지 않음. 3건은 전체 정확도 근거가 아님</td></tr><tr><td>백엔드</td><td>집 PC DB·서버 구현과 분석 연결 마무리 후 프론트 테스트 가능 안내</td><td>백업→최신 코드 적용→실제 입력·저장·분석·재시작 조회 검증→DB 행 수 기록. 지금 준비 완료로 표시하지 않음</td></tr><tr><td>프론트·디자인</td><td>월세구멍 로고·슬로건·색상·글자·화면 분위기 디자인을 오늘(10/21)까지 진행</td><td>실제 디자인 완료 확인은 별도. 테스트 준비 안내 후 실제 화면 검증</td></tr></tbody></table></div><h3>다음 미팅: 10/22(목) 오후 4시 30분</h3><p>관리비 실제 자료 비교 결과·산정 방식, 집 DB/서버와 프론트 연동 시험, 남은 오류, 로고·슬로건·화면 디자인을 확인합니다.</p></section>
 <section id="handoff"><h2>06. 프론트 담당자에게 전달할 내용</h2><div class="scroll"><table><thead><tr><th>화면</th><th>꼭 넣을 내용</th><th>연결·확인할 것</th></tr></thead><tbody><tr><td>시작·입력</td><td>직접 입력·광고 캡처 / 구·법정동·주소·유형·면적·층·보증금·월세</td><td>자동 추출도 사용자 수정·확인 필수. 법정동과 건물 동·호수 구분. 추출/주소 외부 API 실제 호출 검증 여부 확인</td></tr><tr><td>관리비·확인</td><td>5항목 포함 체크 + 총액 한 칸 + 최종 확인. 항목별 금액 입력 없음</td><td>POST /listings의 options. 금액 만원, 면적 ㎡. 미기재 null, 명시된 무료만 0. 입력 확인 전 분석 차단</td></tr><tr><td>월세 결과</td><td>입력 월세와 기준 월세 → 월 차액·차이율을 크게 표시 → 조건·범위·건수·신뢰도·보류 사유</td><td>POST /listings/{id}/analyses → GET /listings/{id}/report. rent.result의 현재 계약 사용. rent_difference_10k_krw와 rent_difference_pct×100 사용. 차이율 분모는 비교 중앙값. 높으면 빨강·낮으면 파랑·차이 없음은 중립색. 높아요/낮아요와 차액·%를 함께 표시. 자료 부족·보류는 중립색과 사유 우선. null을 0으로 표시하지 않기</td></tr><tr><td>근거·비용</td><td>지역·조건·기간·자료 부족 / 광고 관리비 내역</td><td>advertised_costs 사용. 항목 포함액을 총액에 다시 더하지 않기. 거래 목록은 미제공 표시. 관리비 추정 ON_HOLD 유지</td></tr><tr><td>공통</td><td>불러오는 중·실패·재시도·입력값 보존</td><td>팀 접속키는 별도 전달. POST /sessions로 세션 시작, 세션 전달 방식은 backend/FRONTEND_HANDOFF.md와 예제 사용. 키를 저장소·화면 시안에 넣지 않기</td></tr></tbody></table></div><p class="warn"><b>프론트 요청:</b> 정의서 기준 4단계와 선택 대기 사항을 보고 입력·확인·결과에 반영할 부분을 정해주세요. 실제 연결 화면에서 ①정상 ②미확인 ③자료 부족 ④통신 실패 ⑤관리비 미기재/0원 사례를 보여주세요. 접속키는 별도로 전달합니다.</p></section>
 <section><h2>자료와 범위</h2><p>현재 코드·기존 실행 기록·PR 검토를 바탕으로 정리했습니다. 오늘 집 서버에 다시 접속해 상태를 갱신한 보고서는 아닙니다. 시안 숫자·건수는 설명용 예시이며 운영 자료나 정확도 근거가 아닙니다.</p><p><a href="https://toss.im/">토스 공식 서비스</a> · <a href="https://about.daangn.com/service/">당근 공식 소개</a> · <a href="https://ohou.se/">오늘의집 공식 서비스</a> · <a href="https://github.com/djmun2678/ai-wolse-trap-detector/pull/1">분석 PR #1</a></p><p>확인 문서: backend/ADVERTISED_COSTS.md · FRONTEND_HANDOFF.md · HOME_PC_HANDOFF_20261021.md · PR1_REVIEW_20261021.md. 실제 개발 소스나 분석 정책·프론트 원본은 이 시안으로 변경하지 않았습니다.</p></section><footer>공유용 화면 제안·현황 보고서 / 기준일 2026-10-21 / 인쇄 메뉴에서 PDF 저장 가능</footer></main></html>

diff --git a/backend/app/main.py b/backend/app/main.py
@@ -19,6 +19,7 @@ from .report import build_report
 from .input_review import listing_draft
 from .request_diagnostics import RequestDiagnostics
 from .utility_estimate import UtilityScenario, estimate as estimate_utilities, catalog as utility_catalog
+from .service_identity import SERVICE_NAME, public_identity
 
 
 def create_app(settings=None, pool=None, extractor=None):
@@ -55,7 +56,7 @@ def create_app(settings=None, pool=None, extractor=None):
                 app.state.v2_status='UNAVAILABLE'
         yield
 
-    app = FastAPI(title="월세 비교 API",version="1.1.0",lifespan=lifespan)
+    app = FastAPI(title=SERVICE_NAME + " API",version="1.1.0",lifespan=lifespan)
 
     @app.exception_handler(RequestValidationError)
     async def validation_error(request, exc):
@@ -115,6 +116,7 @@ def create_app(settings=None, pool=None, extractor=None):
     @app.get('/capabilities')
     def capabilities():
         return {
+            "service": public_identity(),
             "schema_version": "1.1", "data_status": app.state.data_status,
             "loaded_coverage": service.coverage(app.state.pool),
             "address_configured": bool(settings.kakao_key),

diff --git a/backend/tests/test_service_identity.py b/backend/tests/test_service_identity.py
@@ -1,0 +1,17 @@
+from backend.app.service_identity import public_identity
+from backend.tests.test_backend import setup, payload
+
+
+def test_public_identity_is_consistent_in_capabilities_report_and_openapi(setup):
+    c, _ = setup
+    identity = c.get('/capabilities').json()['service']
+    assert identity['name'] == '월세구멍'
+    assert identity['slogan'] == '마음에 든 집, 놓친 건 없을까?'
+    assert identity['maintenance_policy'] == 'FIVE_ITEMS_ALL_HOUSING_TYPES'
+    assert [r['item'] for r in identity['maintenance_display_items']] == ['WATER','ELECTRICITY','GAS','INTERNET','OTHER']
+    assert c.get('/openapi.json').json()['info']['title'] == '월세구멍 API'
+    lid = c.post('/listings', json=payload()).json()['id']
+    assert c.get('/listings/'+lid+'/report').json()['service'] == identity
+    # A caller cannot mutate the server's shared metadata through a returned object.
+    identity['maintenance_display_items'].clear()
+    assert len(public_identity()['maintenance_display_items']) == 5

diff --git a/backend/app/service_identity.py b/backend/app/service_identity.py
@@ -1,0 +1,21 @@
+"""Meeting-approved identity and cost display policy; no price estimation rules."""
+
+SERVICE_NAME = '월세구멍'
+SLOGAN = '마음에 든 집, 놓친 건 없을까?'
+
+
+def public_identity():
+    return {
+        'name': SERVICE_NAME,
+        'slogan': SLOGAN,
+        'maintenance_policy': 'FIVE_ITEMS_ALL_HOUSING_TYPES',
+        'maintenance_input_mode': 'CHECKBOX_TOTAL_V1',
+        'maintenance_display_items': [
+            {'item': 'WATER', 'label': '수도세'},
+            {'item': 'ELECTRICITY', 'label': '전기세'},
+            {'item': 'GAS', 'label': '가스비'},
+            {'item': 'INTERNET', 'label': '인터넷'},
+            {'item': 'OTHER', 'label': '기타 관리비'},
+        ],
+        'notice': '모든 주택 유형에 동일한 5항목을 사용합니다. 청소·공용은 기타의 설명으로 보존합니다. 자료 지원 범위와 계산 가능 여부는 별도로 확인합니다.',
+    }

diff --git a/backend/app/report.py b/backend/app/report.py
@@ -3,6 +3,7 @@ from .cost_items import cost_items
 from .report_money import advertised_money as money
 from .advertised_costs import advertised_costs
 from .maintenance_selection import grouped_references
+from .service_identity import public_identity
 
 
 def build_report(listing, analysis, evidence, data_status):
@@ -34,6 +35,7 @@ def build_report(listing, analysis, evidence, data_status):
     elif any(x['comparison']['status']=='NEEDS_REVIEW' for x in evidence['items']):
         next_actions.append('REVIEW_MAINTENANCE_EVIDENCE')
     return {
+        'service': public_identity(),
         'report_version':'1.0','listing_id':listing['id'],
         'advertised_costs':advertised_costs(options,confirmed),
         'maintenance_reference_groups': grouped_references(options,confirmed),

diff --git a/backend/HOME_PC_HANDOFF_20261021.md b/backend/HOME_PC_HANDOFF_20261021.md
@@ -1,6 +1,6 @@
-> **최신 입력·결과 확정(2026-10-21):** 고객은 5개 항목 체크 + 선택된 항목의 관리비 총액 한 칸만 입력합니다. 결과는 체크/미체크 항목의 분석 참고비용을 분리합니다. [새 연결 규격](CHECKBOX_MAINTENANCE.md)이 이전 상세금액 입력 안내보다 우선합니다. 실제 분석값 미연결·아파트 정책·지원 범위는 별도 미완료/논의 중입니다.
+> **10/21 미팅 확정 — 월세구멍:** 슬로건은 “마음에 든 집, 놓친 건 없을까?”. 관리비는 모든 주택 유형에 수도세·전기세·가스비·인터넷·기타 관리비 5항목으로 통일합니다. 청소·공용은 기타의 설명으로 보존하며 별도 항목을 추가하지 않습니다. 고객은 체크박스+총액만 입력합니다. 이전 미확정 안내보다 이 결정이 우선합니다.
 
-> **2026-10-21 논의 중:** 관리비 기본안은 전기·수도·가스·인터넷·기타 5항목입니다. 아파트의 청소·공용관리비를 별도 항목으로 추가할지, 모든 주택유형에서 기타로 통일할지는 미확정입니다. 결정 전 현재 FIVE_ITEMS_V1 구현을 유지하고 DB·API 항목을 임의로 늘리거나 기존 세부내역을 삭제하지 않습니다.
+> **최신 입력·결과 확정(2026-10-21):** 고객은 5개 항목 체크 + 선택된 항목의 관리비 총액 한 칸만 입력합니다. 결과는 체크/미체크 항목의 분석 참고비용을 분리합니다. [새 연결 규격](CHECKBOX_MAINTENANCE.md)이 이전 상세금액 입력 안내보다 우선합니다. 실제 분석값 연결·집 배포는 미완료이며 지원 범위는 별도 논의 중입니다.
 
 # 집 PC에서 이어서 할 일 — 2026-10-21
 
@@ -30,7 +30,7 @@ PR #1: https://github.com/djmun2678/ai-wolse-trap-detector/pull/1
 기존 월세 분석 핵심 진입점·엔진·설정은 변경 없음. 그러나 README의 '월세 보류'는 현재 서비스 합의와 확인 필요. PR 본문의 '관리비 연결 함수는 다음 작업'은 실제 추가된 adapter/run_maintenance와 불일치합니다.
 관리비 test_adapter는 energy_reference_2023.csv 누락으로 FileNotFoundError. 누락 시 자료 부족을 반환하도록 분석 담당 보완·자료 배포 방법 협의가 필요합니다. test_normalize는 PR에서 output/ 삭제 후 폴더를 만들지 않아 결과 저장 오류. test_analyze는 비공개 실거래 CSV 없이 실행 불가. Docker 실행 도구는 이번 매장 환경에서 확인되지 않아 빌드는 미검증.
 
-청소·공용: 아파트 60개 단지 K-apt 실험 결과 문서는 있으나 실제 원자료는 PR에서 확인 안 됨. 청소비 독립 기준과 원룸·빌라·오피스텔 적용 근거 없음. 광고 예시 금액은 운영 기준으로 넣지 마세요. 아파트의 청소·공용 별도 항목 여부는 논의 중입니다. 확정 전 현재 5항목을 유지하고 원문·상세를 보존하세요.
+청소·공용: 아파트 60개 단지 K-apt 실험 결과 문서는 있으나 실제 원자료는 PR에서 확인 안 됨. 청소비 독립 기준과 원룸·빌라·오피스텔 적용 근거 없음. 광고 예시 금액은 운영 기준으로 넣지 마세요. 10/21 확정으로 아파트도 5항목을 유지하고 청소·공용은 기타 원문·상세로 보존하세요.
 
 ## 최종 보고할 것
 
@@ -45,3 +45,19 @@ PR #1: https://github.com/djmun2678/ai-wolse-trap-detector/pull/1
 
 실행 형식: `python -m backend.scripts.db_status --env-file <비공개 환경설정 파일>`.
 매장 격리 테스트 DB에서 SQLite·MySQL 2개 테스트 통과(2026-10-21). 집 DB의 실제 행 수 확인은 원격 연결 후 수행해야 하며 아직 완료하지 않았습니다.
+
+## 10/21 미팅 이후 집 PC 실행 순서 — 우선 적용
+
+1. 개인 저장소 최신 커밋을 fetch·비교하고 미커밋 변경을 보존한 뒤 동기화. 팀 PR 브랜치의 분석·시연 변경은 main과 다를 수 있으므로 자동 머지하지 않음.
+2. 기존 DB·환경변수·실거래·키 위치 확인 후 백업. 복구 시험은 별도 DB에서 수행. Git pull이 DB·개인 설정을 가져오지는 않음.
+3. 집 DB 스키마·기존 행 수를 기록하고 CHECKBOX_TOTAL_V1 입력(5개 체크+총액)과 기존 7항목 기록의 보존을 확인. 신규 입력은 5항목, 기존 청소·공용 자료 삭제 금지.
+4. 분석 담당이 강서 2건·송파 1건의 실제 자료와 비교한 결과를 받아 사용 방식을 확인. 표본 원문은 저장소에 올리지 말고 익명 ID·월·유형·금액·산정 방식·오차·적용 조건을 기록. 표본 3건으로 전체 정확도를 주장하지 않음. 결정된 산정 방법은 아직 전달받지 않았으므로 임의 선택하지 않음.
+5. 필요한 CSV·키·계산 조건을 확인해 분석 연결. 기타 자료 없으면 null. 미체크는 UNKNOWN 유지. 체크/미체크 결과에 실제 참고값·출처·누락 항목 표시. 다른 공개 통계나 시연 숫자로 누락 자료를 채우지 않음.
+6. 기존 방법으로 서버 재시작. /capabilities의 service.name=월세구멍, 공통 5항목 정책 및 광고 5항목 버전 확인. 실제 입력 → 사용자 확인 → DB 저장 → 월세 분석 → 보고서 조회 → 재시작 후 조회·소유자 분리를 확인.
+7. 정확한 집 DB 행 수·적용 커밋·테스트 결과·남은 오류 기록. 준비가 끝나면 프론트에 테스트 가능 여부·서버 주소·방법을 전달할 메시지 초안을 작성. 접속키는 별도 전달. 직접 메시지 발송은 사용자 지시 전 하지 않음.
+
+프론트 안내 초안(검증 완료 후에만 사용): “집 서버 적용과 입력→저장→결과 확인을 마쳤습니다. 월세구멍 화면에서 5항목 체크+총액 입력과 체크/미체크 결과를 테스트해주세요. 서버 주소는 실행 정보의 최신 주소를 사용하고 접속키는 따로 전달하겠습니다. 오류는 화면·동작·메시지를 함께 알려주세요.”
+
+집에서 직접 해야 할 일: 원격 설정 ZIP 실행 시 Windows 관리자 허용 및 동일 Tailscale 계정 로그인. 집 연결 정보 파일 전달. 서버 준비 완료로 미리 보고하지 않음.
+
+다음 미팅: 10/22(목) 오후 4시 30분. 디자인은 10/21까지 진행 요청된 일정이며 완료 확인은 별도.

diff --git a/backend/MEETING_20261021.md b/backend/MEETING_20261021.md
@@ -1,0 +1,35 @@
+# 10/21 미팅 결정 — 월세구멍
+
+## 확정
+
+- 서비스명: **월세구멍**
+- 슬로건: **마음에 든 집, 놓친 건 없을까?**
+- 의미: 내가 본 집에서 놓친 부분(구멍)이 없는지 짚어본다.
+- 관리비는 모든 주택 유형에서 **수도세·전기세·가스비·인터넷·기타 관리비** 5항목 통일. 청소·공용은 별도 신설하지 않고 기타 상세로 보존한다.
+- 고객 입력은 5항목 체크 + 선택 항목이 포함된 관리비 총액 한 칸. 결과는 체크/미체크 참고비용을 나눠 표시한다.
+- 관리비 산정 방식은 **강서 2건·송파 1건 실제 자료와 비교**해 가까운 방법을 선택한다. 이 문서는 실제 검증·선택 완료를 뜻하지 않는다.
+- 로고·슬로건·톤앤매너 디자인은 10/21까지 진행한다. 완료 여부는 프론트·디자인 담당 결과로 확인한다.
+- 백엔드는 집 PC DB·서버·분석 연결을 마무리하고 실제 검증 후 프론트 테스트 가능 여부를 안내한다.
+- 다음 미팅: **10/22(목) 오후 4시 30분**.
+
+## 이번 백엔드 반영
+
+- API 문서 제목을 월세구멍 API로 변경.
+- /capabilities 및 /listings/{id}/report에 service.name·slogan·maintenance_policy·5항목 표시명 제공.
+- 입력 계약·기존 category_version과 내부 키는 보존. 기존 DB·환경변수·실행 경로를 브랜드 변경으로 이름 바꾸지 않는다.
+- 현재 5항목 저장·체크/미체크 그룹을 유지. 주택유형에 따른 별도 청소·공용 항목을 추가하지 않음.
+
+## 아직 남은 일
+
+| 담당 | 다음 할 일 | 완료 기준 |
+|---|---|---|
+| 분석 | 실제 3건·방식별 결과·오차·조건·선택 근거 전달, 필요한 CSV·이용 조건 확인 | 서버에서 같은 결과 재현, 기타 자료 누락 여부 명시 |
+| 백엔드(집) | 백업·스키마·데이터 확인, 최신 코드 반영·재시작, 실제 분석 연결·DB 행 수·영속성 확인 | 프론트 테스트 가능 상태 확인 후 안내 초안 작성 |
+| 프론트 | 로고·슬로건·톤앤매너, 5항목 체크+총액과 두 묶음 결과 연결 | 실제 화면 정상·자료 없음·재시도·입력 확인 사례 검증 |
+| PM | 정의서 014/034/035와 미팅 결정 정합성, 지원 지역·자료 범위·남은 오류 기록 | 합의사항과 미검증 상태를 분리해 다음 미팅 공유 |
+
+집 실행 상세는 HOME_PC_HANDOFF_20261021.md, 프론트 계약은 CHECKBOX_MAINTENANCE.md 참고. 접속키는 따로 전달한다. 원본 고지서·개인정보·키·CSV 원본을 Git에 넣지 않는다. 3건 검증 결과를 전체 정확도로 확대하지 않는다.
+
+## 검증 기록
+
+2026-10-21 개인 저장소 전체 backend/tests: 격리 SQLite/MySQL에서 **206 passed, 4 warnings**. 팀 저장소 동일 브랜드 응답 시험 **1 passed, 1 warning**. 집 PC의 실제 적용·DB 행 수 확인은 수행 전입니다.

diff --git a/backend/PR1_REVIEW_20261021.md b/backend/PR1_REVIEW_20261021.md
@@ -1,4 +1,4 @@
-> **2026-10-21 논의 중:** 관리비 기본안은 전기·수도·가스·인터넷·기타 5항목입니다. 아파트의 청소·공용관리비를 별도 항목으로 추가할지, 모든 주택유형에서 기타로 통일할지는 미확정입니다. 결정 전 현재 FIVE_ITEMS_V1 구현을 유지하고 DB·API 항목을 임의로 늘리거나 기존 세부내역을 삭제하지 않습니다.
+> **10/21 미팅 확정 — 월세구멍:** 슬로건은 “마음에 든 집, 놓친 건 없을까?”. 관리비는 모든 주택 유형에 수도세·전기세·가스비·인터넷·기타 관리비 5항목으로 통일합니다. 청소·공용은 기타의 설명으로 보존하며 별도 항목을 추가하지 않습니다. 고객은 체크박스+총액만 입력합니다. 이전 미확정 안내보다 이 결정이 우선합니다.
 
 # 분석가 PR 확인 결과
 
@@ -25,4 +25,4 @@ HEAD `5c9fce223d699346c44a037e51c185baada58129`. 머지하지 않음.
 - 원룸·다가구·오피스텔 자료는 이 실험 범위에 없으며 빌라 기준도 확보 확인 안 됨. 예시 JSON의 공용관리비 금액은 근거 데이터가 아닙니다.
 - 실제 서비스에 청소·공용 추정값을 추가하지 않았습니다. 전기·수도·가스·인터넷·기타 5항목을 유지하고 실제 광고 명시값만 출처와 함께 저장합니다.
 
-분석가 요청 초안: 정리 감사합니다! 기존 월세 연결 테스트는 통과했습니다. 합치기 전에 월세 보류 문구와 PR 설명을 현재 범위로 맞춰주시고, 필수 CSV가 없을 때 오류 대신 자료 부족으로 처리되는지와 output 폴더 없는 상태의 테스트 실행을 보완 부탁드립니다. 청소·공용은 아파트 실험 문서는 확인했는데, 아파트 청소·공용을 별도 표시할지 모든 유형에서 기타로 통일할지 함께 논의 부탁드립니다. 임의 금액은 넣지 않겠습니다.
+분석가 요청 초안: 정리 감사합니다! 기존 월세 연결 테스트는 통과했습니다. 합치기 전에 월세 보류 문구와 PR 설명을 현재 범위로 맞춰주시고, 필수 CSV가 없을 때 오류 대신 자료 부족으로 처리되는지와 output 폴더 없는 상태의 테스트 실행을 보완 부탁드립니다. 청소·공용은 아파트 실험 문서는 확인했는데, 모든 유형에서 5항목 통일 결정에 맞춰 기타의 자료 확보 여부를 알려주세요. 임의 금액은 넣지 않겠습니다.

diff --git a/backend/FRONTEND_HANDOFF.md b/backend/FRONTEND_HANDOFF.md
@@ -1,6 +1,6 @@
-> **최신 입력·결과 확정(2026-10-21):** 고객은 5개 항목 체크 + 선택된 항목의 관리비 총액 한 칸만 입력합니다. 결과는 체크/미체크 항목의 분석 참고비용을 분리합니다. [새 연결 규격](CHECKBOX_MAINTENANCE.md)이 이전 상세금액 입력 안내보다 우선합니다. 실제 분석값 미연결·아파트 정책·지원 범위는 별도 미완료/논의 중입니다.
+> **10/21 미팅 확정 — 월세구멍:** 슬로건은 “마음에 든 집, 놓친 건 없을까?”. 관리비는 모든 주택 유형에 수도세·전기세·가스비·인터넷·기타 관리비 5항목으로 통일합니다. 청소·공용은 기타의 설명으로 보존하며 별도 항목을 추가하지 않습니다. 고객은 체크박스+총액만 입력합니다. 이전 미확정 안내보다 이 결정이 우선합니다.
 
-> **2026-10-21 논의 중:** 관리비 기본안은 전기·수도·가스·인터넷·기타 5항목입니다. 아파트의 청소·공용관리비를 별도 항목으로 추가할지, 모든 주택유형에서 기타로 통일할지는 미확정입니다. 결정 전 현재 FIVE_ITEMS_V1 구현을 유지하고 DB·API 항목을 임의로 늘리거나 기존 세부내역을 삭제하지 않습니다.
+> **최신 입력·결과 확정(2026-10-21):** 고객은 5개 항목 체크 + 선택된 항목의 관리비 총액 한 칸만 입력합니다. 결과는 체크/미체크 항목의 분석 참고비용을 분리합니다. [새 연결 규격](CHECKBOX_MAINTENANCE.md)이 이전 상세금액 입력 안내보다 우선합니다. 실제 분석값 연결·집 배포는 미완료이며 지원 범위는 별도 논의 중입니다.
 
 > **최신 5항목 규격(2026-10-21):** 현재 구현은 전기·수도·가스·인터넷·기타 관리비 5항목입니다. 신규 저장은 총액 1행+항목 5행, 과거 7행은 삭제하지 않고 호환 조회합니다. [프론트 필드·기존 자료 처리](ADVERTISED_COSTS.md). 아래 과거 7항목 설명보다 이 규격이 우선하며, 집 실행 서버 적용은 별도 확인해야 합니다.
 

diff --git a/backend/MAINTENANCE_DB.md b/backend/MAINTENANCE_DB.md
@@ -1,6 +1,6 @@
-> **최신 입력·결과 확정(2026-10-21):** 고객은 5개 항목 체크 + 선택된 항목의 관리비 총액 한 칸만 입력합니다. 결과는 체크/미체크 항목의 분석 참고비용을 분리합니다. [새 연결 규격](CHECKBOX_MAINTENANCE.md)이 이전 상세금액 입력 안내보다 우선합니다. 실제 분석값 미연결·아파트 정책·지원 범위는 별도 미완료/논의 중입니다.
+> **10/21 미팅 확정 — 월세구멍:** 슬로건은 “마음에 든 집, 놓친 건 없을까?”. 관리비는 모든 주택 유형에 수도세·전기세·가스비·인터넷·기타 관리비 5항목으로 통일합니다. 청소·공용은 기타의 설명으로 보존하며 별도 항목을 추가하지 않습니다. 고객은 체크박스+총액만 입력합니다. 이전 미확정 안내보다 이 결정이 우선합니다.
 
-> **2026-10-21 논의 중:** 관리비 기본안은 전기·수도·가스·인터넷·기타 5항목입니다. 아파트의 청소·공용관리비를 별도 항목으로 추가할지, 모든 주택유형에서 기타로 통일할지는 미확정입니다. 결정 전 현재 FIVE_ITEMS_V1 구현을 유지하고 DB·API 항목을 임의로 늘리거나 기존 세부내역을 삭제하지 않습니다.
+> **최신 입력·결과 확정(2026-10-21):** 고객은 5개 항목 체크 + 선택된 항목의 관리비 총액 한 칸만 입력합니다. 결과는 체크/미체크 항목의 분석 참고비용을 분리합니다. [새 연결 규격](CHECKBOX_MAINTENANCE.md)이 이전 상세금액 입력 안내보다 우선합니다. 실제 분석값 연결·집 배포는 미완료이며 지원 범위는 별도 논의 중입니다.
 
 > **최신 5항목 규격(2026-10-21):** 현재 구현은 전기·수도·가스·인터넷·기타 관리비 5항목입니다. 신규 저장은 총액 1행+항목 5행, 과거 7행은 삭제하지 않고 호환 조회합니다. [프론트 필드·기존 자료 처리](ADVERTISED_COSTS.md). 아래 과거 7항목 설명보다 이 규격이 우선하며, 집 실행 서버 적용은 별도 확인해야 합니다.
 

diff --git a/backend/README.md b/backend/README.md
@@ -1,6 +1,6 @@
-> **최신 입력·결과 확정(2026-10-21):** 고객은 5개 항목 체크 + 선택된 항목의 관리비 총액 한 칸만 입력합니다. 결과는 체크/미체크 항목의 분석 참고비용을 분리합니다. [새 연결 규격](CHECKBOX_MAINTENANCE.md)이 이전 상세금액 입력 안내보다 우선합니다. 실제 분석값 미연결·아파트 정책·지원 범위는 별도 미완료/논의 중입니다.
+> **10/21 미팅 확정 — 월세구멍:** 슬로건은 “마음에 든 집, 놓친 건 없을까?”. 관리비는 모든 주택 유형에 수도세·전기세·가스비·인터넷·기타 관리비 5항목으로 통일합니다. 청소·공용은 기타의 설명으로 보존하며 별도 항목을 추가하지 않습니다. 고객은 체크박스+총액만 입력합니다. 이전 미확정 안내보다 이 결정이 우선합니다.
 
-> **2026-10-21 논의 중:** 관리비 기본안은 전기·수도·가스·인터넷·기타 5항목입니다. 아파트의 청소·공용관리비를 별도 항목으로 추가할지, 모든 주택유형에서 기타로 통일할지는 미확정입니다. 결정 전 현재 FIVE_ITEMS_V1 구현을 유지하고 DB·API 항목을 임의로 늘리거나 기존 세부내역을 삭제하지 않습니다.
+> **최신 입력·결과 확정(2026-10-21):** 고객은 5개 항목 체크 + 선택된 항목의 관리비 총액 한 칸만 입력합니다. 결과는 체크/미체크 항목의 분석 참고비용을 분리합니다. [새 연결 규격](CHECKBOX_MAINTENANCE.md)이 이전 상세금액 입력 안내보다 우선합니다. 실제 분석값 연결·집 배포는 미완료이며 지원 범위는 별도 논의 중입니다.
 
 > **최신 5항목 규격(2026-10-21):** 현재 구현은 전기·수도·가스·인터넷·기타 관리비 5항목입니다. 신규 저장은 총액 1행+항목 5행, 과거 7행은 삭제하지 않고 호환 조회합니다. [프론트 필드·기존 자료 처리](ADVERTISED_COSTS.md). 아래 과거 7항목 설명보다 이 규격이 우선하며, 집 실행 서버 적용은 별도 확인해야 합니다.
 

diff --git a/backend/ADVERTISED_COSTS.md b/backend/ADVERTISED_COSTS.md
@@ -1,6 +1,6 @@
-> **최신 입력·결과 확정(2026-10-21):** 고객은 5개 항목 체크 + 선택된 항목의 관리비 총액 한 칸만 입력합니다. 결과는 체크/미체크 항목의 분석 참고비용을 분리합니다. [새 연결 규격](CHECKBOX_MAINTENANCE.md)이 이전 상세금액 입력 안내보다 우선합니다. 실제 분석값 미연결·아파트 정책·지원 범위는 별도 미완료/논의 중입니다.
+> **10/21 미팅 확정 — 월세구멍:** 슬로건은 “마음에 든 집, 놓친 건 없을까?”. 관리비는 모든 주택 유형에 수도세·전기세·가스비·인터넷·기타 관리비 5항목으로 통일합니다. 청소·공용은 기타의 설명으로 보존하며 별도 항목을 추가하지 않습니다. 고객은 체크박스+총액만 입력합니다. 이전 미확정 안내보다 이 결정이 우선합니다.
 
-> **2026-10-21 논의 중:** 관리비 기본안은 전기·수도·가스·인터넷·기타 5항목입니다. 아파트의 청소·공용관리비를 별도 항목으로 추가할지, 모든 주택유형에서 기타로 통일할지는 미확정입니다. 결정 전 현재 FIVE_ITEMS_V1 구현을 유지하고 DB·API 항목을 임의로 늘리거나 기존 세부내역을 삭제하지 않습니다.
+> **최신 입력·결과 확정(2026-10-21):** 고객은 5개 항목 체크 + 선택된 항목의 관리비 총액 한 칸만 입력합니다. 결과는 체크/미체크 항목의 분석 참고비용을 분리합니다. [새 연결 규격](CHECKBOX_MAINTENANCE.md)이 이전 상세금액 입력 안내보다 우선합니다. 실제 분석값 연결·집 배포는 미완료이며 지원 범위는 별도 논의 중입니다.
 
 # 관리비 5항목 입력·저장·표시 — 2026-10-21
 
